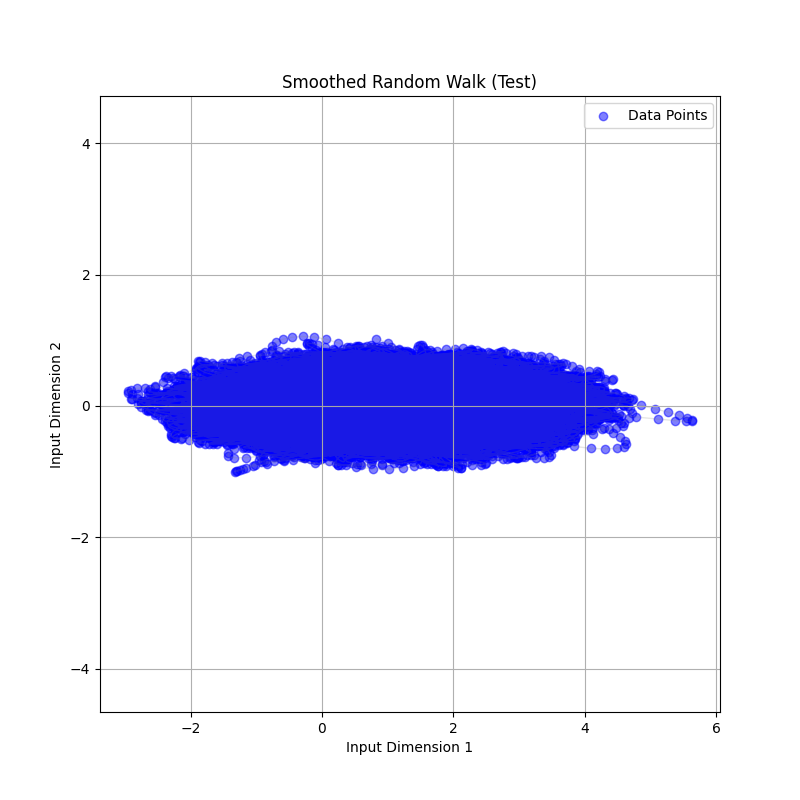
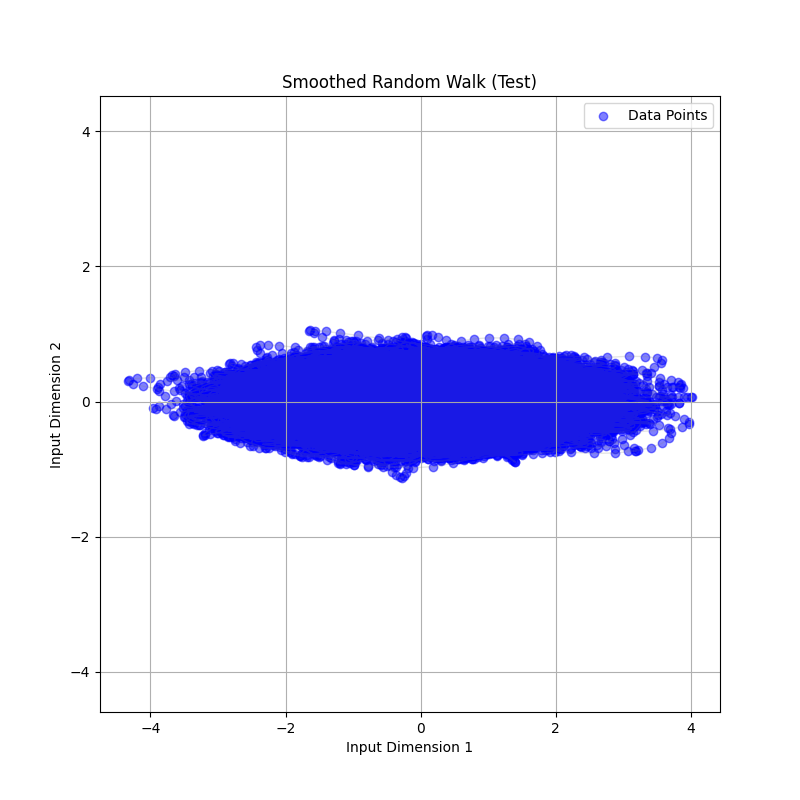
最適重みとの距離完了

diff --git a/src/Gaussian_suggest_nonclass.py b/src/Gaussian_suggest_nonclass.py
@@ -38,9 +38,9 @@ if __name__ == "__main__":
     # ---------------------------------------------------------
     print("Preparing Data...")
 
-    X = appssian.generate_continuous_shift_dataset(n_train=400000, n_test=400000, nx=2, sigma=5, seed=30,
+    X = appssian.generate_continuous_shift_dataset(n_train=400000, n_test=400000, nx=2, sigma=5, seed=23,
                                       train_params={'mean': [0.0, 0.0], 'std': [1.0, 4.0]},
-                                      test_params={'mean': [1.0, 0.0], 'std': [4.0, 1.0]})
+                                      test_params={'mean': [0.0, 0.0], 'std': [4.0, 1.0]})
 
     X_train = X[:400000]
     X_test = X[400000:]
@@ -51,10 +51,16 @@ if __name__ == "__main__":
     F_initial, C_initial, *_ = appssian.init_weights(Nx, Nneuron, Nclasses)
 
     # 戻り値の最後に final_states_1 を受け取る
-    spk_t_1, spk_i_1, F_set1, C_set1, mem_var_1, final_states_1 = appssian.test_train_continuous_suggest_nonclass(
-        F_initial, C_initial, X_train,
-        Nneuron, Nx, Nclasses, dt, leak, Thresh,
-        alpha, beta, mu, retrain=True, Gain=200, eps=0.0001, init_states=None)
+    # spk_t_1, spk_i_1, F_set1, C_set1, mem_var_1, weight_error_1, final_states_1 = appssian.test_train_continuous_suggest_nonclass(
+    #     F_initial, C_initial, X_train,
+    #     Nneuron, Nx, Nclasses, dt, leak, Thresh,
+    #     alpha, beta, mu, retrain=True, Gain=200, eps=0.0001, init_states=None)
+
+    spk_t_1, spk_i_1, F_set1, C_set1, mem_var_1, weight_error_1, final_states_1 = appssian.test_train_continuous_nonclass(
+                          F_initial, C_initial, X_train,
+                          Nneuron, Nx, Nclasses, dt, leak, Thresh, 
+                          alpha, beta, mu, retrain=True, Gain=200,
+                          epsr=0.001, epsf=0.0001, init_states=None)
     
     # ---------------------------------------------------------
     # Set 2: Learning
@@ -62,9 +68,10 @@ if __name__ == "__main__":
     print("--- Phase 2: Learning on Set 2 ---")
 
     # init_states に Set 1 の終わりの状態を渡す
-    spk_t_2, spk_i_2, F_set2, C_set2, mem_var_2, final_states_2 = appssian.test_train_continuous_suggest_nonclass(
-        F_set1, C_set1, X_test, Nneuron, Nx, Nclasses, dt, leak, Thresh, alpha, beta, mu,
-        retrain=True, Gain=200, eps=0.0001, init_states=final_states_1 # ★ここで引き継ぎ！
+    spk_t_2, spk_i_2, F_set2, C_set2, mem_var_2, weight_error_2, final_states_2 = appssian.test_train_continuous_suggest_nonclass(
+        F_set1, C_set1, X_test,
+        Nneuron, Nx, Nclasses, dt, leak, Thresh,
+        alpha, beta, mu, retrain=True, Gain=200, eps=0.0001, init_states=final_states_1 # ★ここで引き継ぎ！
     )
 
     # ---------------------------------------------------------
@@ -91,9 +98,13 @@ if __name__ == "__main__":
     # 時刻をシフトして結合
     full_spk_t = np.concatenate([t1, t2 + time_offset])
     full_spk_i = np.concatenate([i1, i2])
+    full_weight_error = weight_error_1 + weight_error_2
+
+    record_interval_steps = 100
+    time_axis_error = np.arange(len(full_weight_error)) * dt * record_interval_steps
 
     # # ---------------------------------------------------------
-    # # Plot 2: Raster Plot (Combined) - Modified
+    # # Plot 1: Raster Plot (Combined) - Modified
     # # ---------------------------------------------------------
     plt.figure(figsize=(12, 6))
     
@@ -117,7 +128,7 @@ if __name__ == "__main__":
     print(f"Raster plot saved to: {raster_plot_path}")
 
     # ---------------------------------------------------------
-    # Plot 3: Membrane Potential Variance (新規追加)
+    # Plot 2: Membrane Potential Variance (新規追加)
     # ---------------------------------------------------------
     plt.figure(figsize=(10, 6))
     
@@ -150,6 +161,28 @@ if __name__ == "__main__":
     plt.savefig(mem_plot_path)
     plt.close()
     print(f"Voltage Variance plot saved to: {mem_plot_path}")
+
+    # ---------------------------------------------------------
+    # ★新規追加: Plot 3: Distance to Optimal Weights
+    # ---------------------------------------------------------
+    plt.figure(figsize=(10, 6))
+    plt.plot(time_axis_error, full_weight_error, color='purple', label='Distance to Optimal Weights')
+    
+    # Set 1 と Set 2 の境界線
+    end_time_set1 = len(weight_error_1) * dt * record_interval_steps
+    plt.axvline(x=end_time_set1, color='red', linestyle='--', label='End of Set 1')
+
+    plt.xlabel('Time (s)')
+    plt.ylabel('Normalized Distance')
+    plt.title('Convergence to Optimal Recurrent Weights (E-I Balance)')
+    plt.yscale('log') # 対数グラフ推奨
+    plt.grid(True, which="both", ls="-", alpha=0.5)
+    plt.legend()
+    
+    weight_plot_path = current_save_dir / "Final_Weight_Convergence.png"
+    plt.savefig(weight_plot_path)
+    plt.close()
+    print(f"Weight Convergence plot saved to: {weight_plot_path}")
 
     # プロット
 # Trainデータのプロット

diff --git a/app/appGaussian.py b/app/appGaussian.py
@@ -421,6 +421,7 @@ def test_train_continuous_suggest_nonclass(F_init, C_init, X_data,
     spike_times = []
     spike_neurons = []
     membrane_var_history = [] # 各ステップの膜電位分散（空間的）を記録
+    weight_error_history = [] # ★新規追加: 重み誤差の履歴用リスト
     
     # --- 単一のメインループ (Time Step) ---
     for t in range(TotalTime):
@@ -477,6 +478,33 @@ def test_train_continuous_suggest_nonclass(F_init, C_init, X_data,
         else:
             O = 0
 
+        # ---------------------------------------------------------
+        # ★新規追加: 最適重みとの距離の計算 (MATLAB Learning.m 準拠)
+        # 毎ステップ計算すると重いため、100ステップごとに計算などを推奨
+        # ---------------------------------------------------------
+        if t % 100 == 0:
+            # 理論的な最適再帰結合: C_opt = -F^T * F
+            C_opt = -F.T @ F
+            
+            # スケーリング係数の計算 (MATLAB: optscale = trace(CurrC'*Copt)/sum(sum(Copt.^2)))
+            denom_opt = np.sum(C_opt**2)
+            if denom_opt > 1e-12:
+                optscale = np.trace(C.T @ C_opt) / denom_opt
+            else:
+                optscale = 1.0
+                
+            # 正規化項 (MATLAB: Cnorm = sum(sum((CurrC).^2)))
+            C_norm = np.sum(C**2)
+            
+            # 誤差の計算 (MATLAB: ErrorC = sum(sum((CurrC - optscale*Copt).^2))/Cnorm)
+            if C_norm > 1e-12:
+                w_err = np.sum((C - optscale * C_opt)**2) / C_norm
+            else:
+                w_err = 0.0
+                
+            weight_error_history.append(w_err)
+        # ---------------------------------------------------------
+
         # フィルタ済みスパイク列 rO の更新
         rO = (1 - leak * dt) * rO
         if O == 1:
@@ -491,7 +519,7 @@ def test_train_continuous_suggest_nonclass(F_init, C_init, X_data,
     # 最終状態を保存
     final_states = {'V': V, 'rO': rO, 'x': x}
 
-    return spike_times, spike_neurons, F, C, membrane_var_history, final_states
+    return spike_times, spike_neurons, F, C, membrane_var_history, weight_error_history, final_states
 
 def test_train_continuous_nonclass(F_init, C_init, X_data,
                           Nneuron, Nx, Nclasses, dt, leak, Thresh, 
@@ -520,11 +548,10 @@ def test_train_continuous_nonclass(F_init, C_init, X_data,
     k = 0
 
     total_spikes = 0
-    acc_history = []
-    acc_buffer = []  # 移動平均用
     spike_times = []
     spike_neurons = []
     membrane_var_history = [] # 各ステップの膜電位分散（空間的）を記録
+    weight_error_history = [] # ★新規追加: 重み誤差の履歴用リスト
     
     # --- 単一のメインループ (Time Step) ---
     for t in range(TotalTime):
@@ -568,6 +595,33 @@ def test_train_continuous_nonclass(F_init, C_init, X_data,
         else:
             O = 0
 
+        # ---------------------------------------------------------
+        # ★新規追加: 最適重みとの距離の計算 (MATLAB Learning.m 準拠)
+        # 毎ステップ計算すると重いため、100ステップごとに計算などを推奨
+        # ---------------------------------------------------------
+        if t % 100 == 0:
+            # 理論的な最適再帰結合: C_opt = -F^T * F
+            C_opt = -F.T @ F
+            
+            # スケーリング係数の計算 (MATLAB: optscale = trace(CurrC'*Copt)/sum(sum(Copt.^2)))
+            denom_opt = np.sum(C_opt**2)
+            if denom_opt > 1e-12:
+                optscale = np.trace(C.T @ C_opt) / denom_opt
+            else:
+                optscale = 1.0
+                
+            # 正規化項 (MATLAB: Cnorm = sum(sum((CurrC).^2)))
+            C_norm = np.sum(C**2)
+            
+            # 誤差の計算 (MATLAB: ErrorC = sum(sum((CurrC - optscale*Copt).^2))/Cnorm)
+            if C_norm > 1e-12:
+                w_err = np.sum((C - optscale * C_opt)**2) / C_norm
+            else:
+                w_err = 0.0
+                
+            weight_error_history.append(w_err)
+        # ---------------------------------------------------------
+
         # フィルタ済みスパイク列 rO の更新
         rO = (1 - leak * dt) * rO
         if O == 1:
@@ -579,4 +633,4 @@ def test_train_continuous_nonclass(F_init, C_init, X_data,
     # 最終状態を保存
     final_states = {'V': V, 'rO': rO, 'x': x}
 
-    return spike_times, spike_neurons, F, C, membrane_var_history, final_states
+    return spike_times, spike_neurons, F, C, membrane_var_history, weight_error_history, final_states

diff --git a/src/Gaussian_nonclass.py b/src/Gaussian_nonclass.py
@@ -38,9 +38,9 @@ if __name__ == "__main__":
     # ---------------------------------------------------------
     print("Preparing Data...")
 
-    X = appssian.generate_continuous_shift_dataset(n_train=400000, n_test=400000, nx=2, sigma=5, seed=30,
+    X = appssian.generate_continuous_shift_dataset(n_train=400000, n_test=400000, nx=2, sigma=5, seed=23,
                                       train_params={'mean': [0.0, 0.0], 'std': [1.0, 4.0]},
-                                      test_params={'mean': [1.0, 0.0], 'std': [4.0, 1.0]})
+                                      test_params={'mean': [0.0, 0.0], 'std': [4.0, 1.0]})
 
     X_train = X[:400000]
     X_test = X[400000:]
@@ -51,7 +51,7 @@ if __name__ == "__main__":
     F_initial, C_initial, *_ = appssian.init_weights(Nx, Nneuron, Nclasses)
 
     # 戻り値の最後に final_states_1 を受け取る
-    spk_t_1, spk_i_1, F_set1, C_set1, mem_var_1, final_states_1 = appssian.test_train_continuous_nonclass(
+    spk_t_1, spk_i_1, F_set1, C_set1, mem_var_1, weight_error_1, final_states_1 = appssian.test_train_continuous_nonclass(
                           F_initial, C_initial, X_train,
                           Nneuron, Nx, Nclasses, dt, leak, Thresh, 
                           alpha, beta, mu, retrain=True, Gain=200,
@@ -63,8 +63,8 @@ if __name__ == "__main__":
     print("--- Phase 2: Learning on Set 2 ---")
 
     # init_states に Set 1 の終わりの状態を渡す
-    spk_t_2, spk_i_2, F_set2, C_set2, mem_var_2, final_states_2 = appssian.test_train_continuous_nonclass(
-                          F_initial, C_initial, X_train,
+    spk_t_2, spk_i_2, F_set2, C_set2, mem_var_2, weight_error_2, final_states_2 = appssian.test_train_continuous_nonclass(
+                          F_initial, C_initial, X_test,
                           Nneuron, Nx, Nclasses, dt, leak, Thresh, 
                           alpha, beta, mu, retrain=True, Gain=200,
                           epsr=0.001, epsf=0.0001, init_states=None)
@@ -93,9 +93,13 @@ if __name__ == "__main__":
     # 時刻をシフトして結合
     full_spk_t = np.concatenate([t1, t2 + time_offset])
     full_spk_i = np.concatenate([i1, i2])
+    full_weight_error = weight_error_1 + weight_error_2
+
+    record_interval_steps = 100
+    time_axis_error = np.arange(len(full_weight_error)) * dt * record_interval_steps
 
     # # ---------------------------------------------------------
-    # # Plot 2: Raster Plot (Combined) - Modified
+    # # Plot 1: Raster Plot (Combined) - Modified
     # # ---------------------------------------------------------
     plt.figure(figsize=(12, 6))
     
@@ -119,7 +123,7 @@ if __name__ == "__main__":
     print(f"Raster plot saved to: {raster_plot_path}")
 
     # ---------------------------------------------------------
-    # Plot 3: Membrane Potential Variance (新規追加)
+    # Plot 2: Membrane Potential Variance (新規追加)
     # ---------------------------------------------------------
     plt.figure(figsize=(10, 6))
     
@@ -152,6 +156,28 @@ if __name__ == "__main__":
     plt.savefig(mem_plot_path)
     plt.close()
     print(f"Voltage Variance plot saved to: {mem_plot_path}")
+
+    # ---------------------------------------------------------
+    # ★新規追加: Plot 3: Distance to Optimal Weights
+    # ---------------------------------------------------------
+    plt.figure(figsize=(10, 6))
+    plt.plot(time_axis_error, full_weight_error, color='purple', label='Distance to Optimal Weights')
+    
+    # Set 1 と Set 2 の境界線
+    end_time_set1 = len(weight_error_1) * dt * record_interval_steps
+    plt.axvline(x=end_time_set1, color='red', linestyle='--', label='End of Set 1')
+
+    plt.xlabel('Time (s)')
+    plt.ylabel('Normalized Distance')
+    plt.title('Convergence to Optimal Recurrent Weights (E-I Balance)')
+    plt.yscale('log') # 対数グラフ推奨
+    plt.grid(True, which="both", ls="-", alpha=0.5)
+    plt.legend()
+    
+    weight_plot_path = current_save_dir / "Final_Weight_Convergence.png"
+    plt.savefig(weight_plot_path)
+    plt.close()
+    print(f"Weight Convergence plot saved to: {weight_plot_path}")
 
     # プロット
 # Trainデータのプロット
